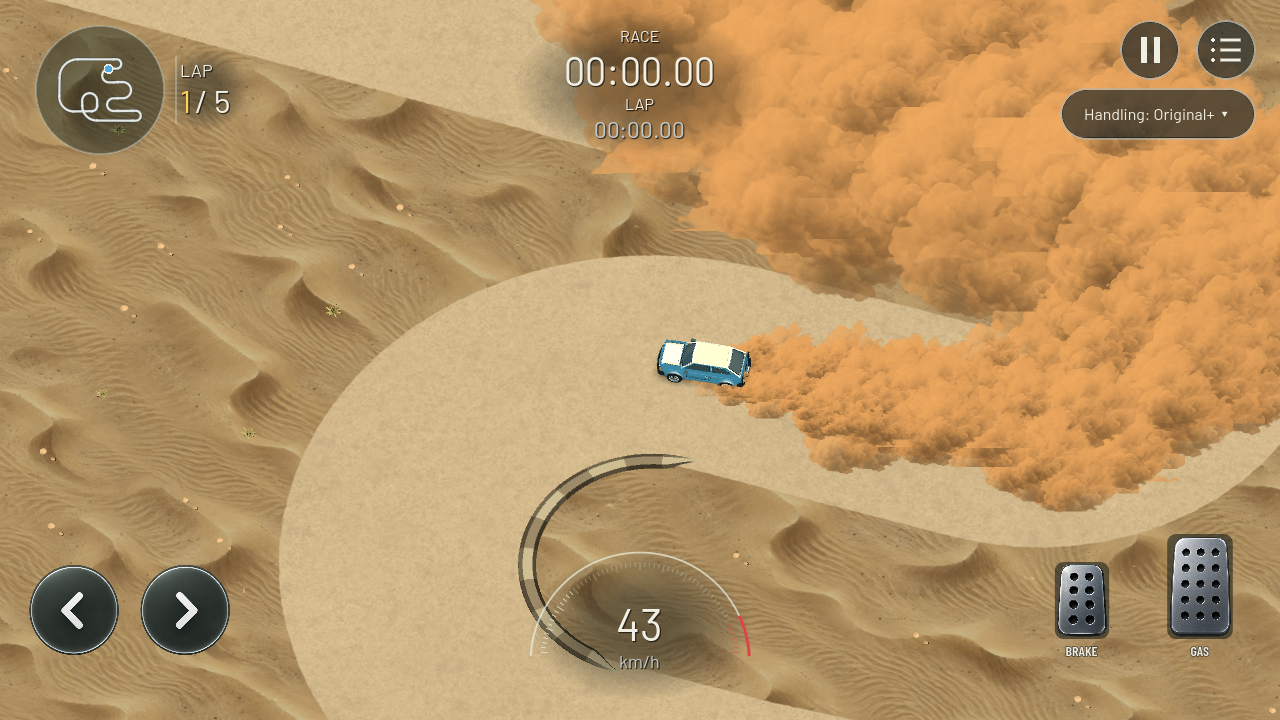
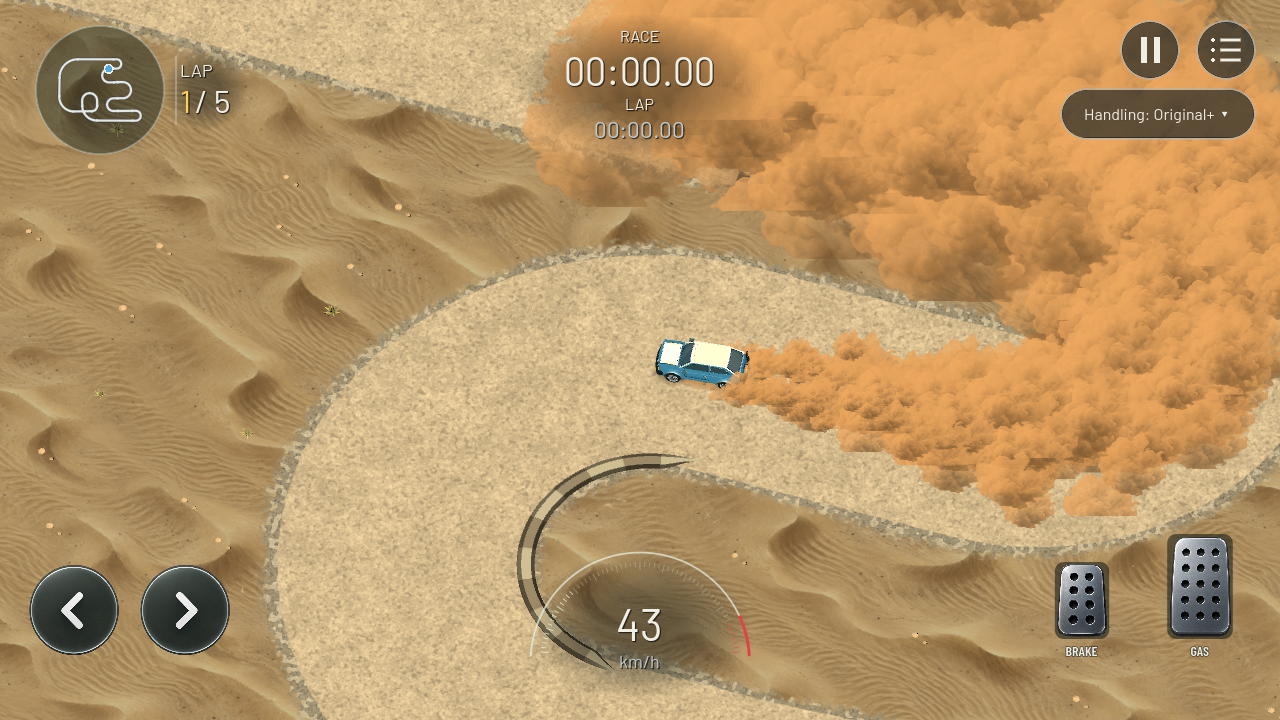
Restore distinct desert gravel shoulders and roughen road material

diff --git a/docs/DESERT_SHOULDERS.md b/docs/DESERT_SHOULDERS.md
@@ -1,0 +1,18 @@
+# Desert road grain and gravel shoulder
+
+2026-09-24; V02/V04/V05/Q01; kit 60. Owner rejected the smooth road and requested a distinct border like the grass biome's sand strip.
+
+The previous shoulder sampled dune artwork, hiding its existing strip geometry. Desert shoulders now use separate darker gravel shading from the existing baked surface-factor texture. The road-edge blend uses this same gravel, and the outer edge blends irregularly into dunes. The existing bounded shoulder extends behind desert kerbs as well as unkerbed edges. Its normals no longer carry full dune relief throughout the gravel. Road grain and worn patches have stronger multiscale contrast.
+
+Changed `game/track/surface_detail.gdshaderinc`, `creator_road.gdshader` and `native_track_visual.gd`. Existing geometry batching and mipmapped assets are reused; one additional baked sample on packed road, no new textures/material draws. Additional shoulder triangles follow kerbed sections within the existing strip batch. Driving boundaries, grip, dust, daylight and camera are unchanged. No measured phone performance claim.
+
+[Inspected gameplay screenshot](evidence/desert-shoulders/road-and-border.png).
+
+Actual pinned-engine commands through `powershell -NoProfile -ExecutionPolicy Bypass -File scripts/dev.ps1`:
+
+- `-Action CaptureDesert -Track track_3e26605a8a90165e`: 50 checks, zero failures, including deterministic five-car behavior and dust checks.
+- `-Action TestSurfaces`: 50 checks, zero failures.
+
+Capture/test logs are saved beside the screenshot. Owner visual approval and phone motion/performance acceptance remain outstanding.
+
+`-Action ExportAndroid -QuickValidation` passed import/startup, 74 driving, 18 catalog and 22 menu checks and exported successfully. SDK `adb install -r build/android/circuit01-debug.apk` succeeded on the attached phone. No device rendering/performance test was performed. Existing build-tools 35.0.1 fallback and two ObjectDB shutdown leaks in driving tests remain.

diff --git a/docs/PHASE_0_PLAN.md b/docs/PHASE_0_PLAN.md
@@ -1,5 +1,7 @@
 # Phase 0: specification review and first slice
 
+2026-09-24 V02/V04/V05/Q01: kit 60 restores a distinct rough gravel shoulder between desert road and dunes, including behind stone kerbs, and strengthens baked road grain/wear. CaptureDesert 50 and TestSurfaces 50 checks pass. Gameplay screenshot inspected. See docs/DESERT_SHOULDERS.md.
+
 2026-09-24 V02/V04/V05/Q01: kit 59 gives desert roads muted compacted sand/gravel, sandstone kerbs and no white edge stripes. Normal daylight supersedes the sunset request; dune pigment is retuned for daylight. Saved-track CaptureDesert 50, TestSurfaces 50 and TestBiomes 92 pass; Android quick export passes 74 driving, 18 catalog and 22 menu checks. Desktop screenshot inspected. See docs/DESERT_DAYLIGHT.md for device status and acceptance.
 
 2026-09-24 V02/V04/V05/Q01: kit 58 adds original dune/ripple sand artwork, baked slope lighting and sparse opaque dry scrub for desert ground. Roads, sunset, dust, camera and canonical handling remain unchanged. Desert 31, saved-track capture 52, surfaces 50, grass 15, biomes 92 and shader profile 928 checks pass. Desktop screenshots inspected; fresh Android APK exported and installed. DN2103 was locked, so phone profile timed out with 0/5 stages; diagnostics cleaned up, performance acceptance pending. See docs/DESERT_DUNES.md.

diff --git a/DEVELOPMENT_STATUS.md b/DEVELOPMENT_STATUS.md
@@ -1,5 +1,7 @@
 # Development status
 
+2026-09-24 V02/V04/V05/Q01: kit 60 restores a distinct rough gravel shoulder between desert road and dunes, including behind stone kerbs, and strengthens baked road grain/wear. CaptureDesert 50 and TestSurfaces 50 checks pass. Gameplay screenshot inspected. See docs/DESERT_SHOULDERS.md.
+
 2026-09-24 V02/V04/V05/Q01: kit 59 gives desert roads muted compacted sand/gravel, sandstone kerbs and no white edge stripes. Normal daylight supersedes the sunset request; dune pigment is retuned for daylight. Saved-track CaptureDesert 50, TestSurfaces 50 and TestBiomes 92 pass; Android quick export passes 74 driving, 18 catalog and 22 menu checks. Desktop screenshot inspected. See docs/DESERT_DAYLIGHT.md for device status and acceptance.
 
 2026-09-24 V02/V04/V05/Q01: kit 58 adds original dune/ripple sand artwork, baked slope lighting and sparse opaque dry scrub for desert ground. Roads, sunset, dust, camera and canonical handling remain unchanged. Desert 31, saved-track capture 52, surfaces 50, grass 15, biomes 92 and shader profile 928 checks pass. Desktop screenshots inspected; fresh Android APK exported and installed. DN2103 was locked, so phone profile timed out with 0/5 stages; diagnostics cleaned up, performance acceptance pending. See docs/DESERT_DUNES.md.
